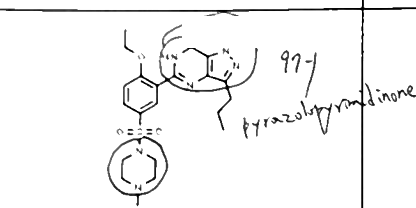
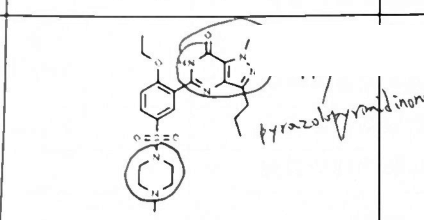
平安符：修正PDE5四個藥物的結構圖裁切，並加入AM_IMG讓dA卡片自動顯示
前一個commit裁切的sildenafil/vardenafil/tadalafil/avanafil結構圖欄位算錯，
導致圖片跨到隔壁藥物；重新用正確的欄位邊界裁切，並把四個id加進AM_IMG，
dA卡片才會自動帶出結構圖。

Changed region(s): [[0.0, 0.0, 1.0, 1.0]]

diff --git a/js/subjects/amulet.js b/js/subjects/amulet.js
@@ -3523,7 +3523,7 @@ kA(47, "常見藥物中毒解毒劑", 277, "常見藥物中毒解毒劑", [
 ]);
 
 /* 結構圖：從講義照片剪下（assets/amulet/），只收講義結構欄的印刷結構式；手寫標註與結構重疊的部分無法去除。 */
-const AM_IMG = {"amantadine": 1, "rimantadine": 1, "ribavirin": 1, "oseltamivir": 1, "zanamivir": 1, "peramivir": 1, "zidovudine": 1, "stavudine": 1, "zalcitabine": 1, "lamivudine": 1, "emtricitabine": 1, "didanosine": 1, "abacavir": 1, "tenofovir": 1, "nevirapine": 1, "efavirenz": 1, "delavirdine": 1, "ritonavir": 1, "indinavir": 1, "raltegravir": 1, "enfuvirtide": 1, "maraviroc": 1, "acyclovir": 1, "penciclovir": 1, "ganciclovir": 1, "cidofovir": 1, "foscarnet": 1, "fomivirsen": 1, "idoxuridine": 1, "trifluridine": 1, "vidarabine": 1, "tenofovir-disoproxil": 1, "adefovir-dipivoxil": 1, "boceprevir": 1, "mechlorethamine": 1, "cyclophosphamide": 1, "ifosfamide": 1, "melphalan": 1, "chlorambucil": 1, "carmustine": 1, "lomustine": 1, "thiotepa": 1, "busulfan": 1, "cisplatin": 1, "carboplatin": 1, "oxaliplatin": 1, "dacarbazine": 1, "temozolomide": 1, "procarbazine": 1, "methotrexate": 1, "fluorouracil": 1, "tegafur-capecitabine": 2, "cytarabine": 1, "gemcitabine": 1, "decitabine-azacitidine": 2, "mercaptopurine": 1, "thioguanine": 1, "fludarabine": 1, "nelarabine": 1, "pentostatin": 1, "hydroxyurea": 1, "dactinomycin": 1, "doxorubicin": 2, "mitoxantrone": 1, "plicamycin": 1, "mitomycin": 1, "bleomycin": 1, "paclitaxel": 1, "docetaxel": 1, "cabazitaxel": 1, "vinblastine": 1, "vincristine": 1, "ixabepilone": 1, "eribulin": 1, "estramustine": 1, "etoposide-teniposide": 1, "topotecan": 1, "irinotecan": 1, "trabectedin": 1, "inotuzumab-ozogamicin": 1, "lenalidomide": 1, "pomalidomide": 1, "romidepsin": 1, "belinostat": 1, "vorinostat": 1, "panobinostat": 1, "cyclosporine": 1, "tacrolimus": 1, "sirolimus-everolimus": 2, "mycophenolate-mofetil": 1, "azathioprine": 1, "leflunomide": 1, "thalidomide": 1, "fosfomycin": 1, "cycloserine": 1, "penicillin-g": 1, "methicillin": 1, "nafcillin": 1, "penicillin-v": 1, "ampicillin": 1, "amoxicillin": 1, "oxacillin": 1, "dicloxacillin": 1, "carbenicillin": 1, "ticarcillin": 1, "azlo-mezlo-piperacillin": 3, "cephalexin": 1, "cefadroxil": 1, "cephradine": 1, "cefazolin": 1, "cefaclor": 1, "cefuroxime": 1, "cefamandole": 1, "cefonicid": 1, "cefoxitin": 1, "cefotetan-cefmetazole": 2, "ceftazidime": 1, "cefoperazone": 1, "cefotaxime": 1, "ceftriaxone": 1, "ceftizoxime": 1, "cefixime": 1, "ceftibuten": 1, "moxalactam": 1, "cefpirome-cefepime": 2, "ceftaroline": 1, "clavulanic-acid": 1, "sulbactam": 1, "tazobactam": 1, "thienamycin": 1, "imipenem": 1, "meropenem": 1, "aztreonam": 1, "vancomycin": 1, "teicoplanin": 1, "streptomycin": 1, "neomycin": 1, "paromomycin": 1, "kanamycin": 1, "amikacin": 1, "tobramycin": 1, "gentamicin": 1, "sisomicin": 1, "netilmicin": 1, "spectinomycin": 1, "tetracycline": 1, "rolitetracycline": 1, "oxytetracycline": 1, "demeclocycline": 1, "doxycycline": 1, "minocycline": 1, "tigecycline": 1, "erythromycin": 1, "clarithromycin": 1, "azithromycin": 1, "troleandomycin": 1, "telithromycin": 1, "fidaxomicin": 1, "quinupristin-dalfopristin": 1, "lincomycin": 1, "clindamycin": 1, "chloramphenicol": 1, "linezolid": 1, "retapamulin": 1, "mupirocin": 1, "nalidixic-acid": 1, "ciprofloxacin": 1, "ofloxacin": 1, "levofloxacin": 1, "gatifloxacin": 1, "gemifloxacin": 1, "moxifloxacin": 1, "sulfamethoxazole": 1, "sulfisoxazole": 1, "sulfamethizole": 1, "sulfadiazine": 1, "mafenide": 1, "silver-sulfadiazine": 1, "sulfacetamide": 1, "sulfasalazine": 1, "sulfadoxine": 1, "trimethoprim": 1, "nitrofurantoin": 1, "methenamine": 1, "dapsone": 1, "terbinafine": 1, "ketoconazole": 1, "clotrimazole": 1, "itraconazole": 1, "fluconazole": 1, "voriconazole": 1, "amphotericin-b": 1, "nystatin": 1, "caspofungin": 1, "anidulafungin": 1, "flucytosine": 1, "griseofulvin": 1, "amorolfine": 1, "ciclopirox": 1, "isoniazid": 1, "rifampin": 1, "ethambutol": 1, "pyrazinamide": 1, "metronidazole": 1, "pentamidine": 1, "atovaquone": 1, "primaquine": 1, "tafenoquine": 1, "atovaquone-proguanil": 1, "capreomycin": 1, "ethionamide": 1, "suramin": 1, "eflornithine": 1, "melarsoprol": 1, "nifurtimox": 1, "ivermectin": 1, "praziquantel": 1, "mebendazole": 1, "metyrosine": 1, "methyldopa": 1, "reserpine": 1, "guanethidine": 1, "bretylium": 1, "cocaine": 1, "imipramine": 1, "amphetamine": 1, "methylphenidate": 1, "dopamine": 1, "norepinephrine": 1, "epinephrine": 1, "phenylephrine": 1, "naphazoline": 1, "midodrine": 1, "methoxamine": 1, "clonidine": 1, "guanabenz": 1, "guanfacine": 1, "moxonidine-rilmenidine": 2, "isoproterenol": 1, "metaproterenol": 1, "terbutaline": 1, "bitolterol": 1, "salbutamol": 1, "salmeterol": 1, "formoterol": 1, "ritodrine": 1, "dobutamine": 1, "ephedrine": 1, "pseudoephedrine": 1, "tolazoline": 1, "phentolamine": 1, "phenoxybenzamine": 1, "prazosin": 1, "terazosin": 1, "alfuzosin": 1, "tamsulosin": 1, "silodosin": 1, "yohimbine": 1, "propranolol": 1, "carvedilol": 1, "ergonovine": 1, "methysergide": 1, "lsd": 1, "ergotamine": 1, "cevimeline": 1, "pilocarpine": 1, "arecoline": 1, "physostigmine": 1, "neostigmine": 1, "tacrine": 1, "galantamine": 1, "donepezil": 1, "rivastigmine": 1, "isoflurophate": 1, "parathion": 1, "pralidoxime": 1, "atropine": 1, "scopolamine": 1, "ipratropium-tiotropium": 2, "oxybutynin": 1, "solifenacin": 1, "benztropine": 1, "orphenadrine": 1, "pirenzepine": 1, "buspirone": 1, "sarizotan": 1, "spiperone": 1, "sumatriptan": 1, "rizatriptan": 1, "ketanserin": 1, "cyproheptadine": 1, "melatonin": 1, "ondansetron": 1, "alosetron": 1, "tegaserod": 1, "cisapride": 1, "metoclopramide": 1, "amitriptyline": 1, "doxepin": 1, "clomipramine": 1, "nortriptyline": 1, "desipramine": 1, "protriptyline": 1, "amoxapine": 1, "maprotiline": 1, "nisoxetine": 1, "reboxetine": 1, "atomoxetine": 1, "fluoxetine": 1, "paroxetine": 1, "citalopram": 1, "sertraline": 1, "fluvoxamine": 1, "duloxetine": 1, "venlafaxine": 1, "milnacipran": 1, "bupropion": 1, "mirtazapine": 1, "trazodone": 1, "vilazodone": 1, "vortioxetine": 1, "phenelzine": 1, "isocarboxazid": 1, "tranylcypromine": 1, "selegiline": 1, "moclobemide": 1, "nitrous-oxide": 1, "halothane": 1, "methoxyflurane": 1, "enflurane": 1, "isoflurane": 1, "desflurane": 1, "sevoflurane": 1, "acetazolamide": 1, "methazolamide": 1, "dichlorphenamide": 1, "furosemide": 1, "bumetanide": 1, "torsemide": 1, "ethacrynic-acid": 1, "chlorothiazide": 1, "quinethazone": 1, "indapamide": 1, "chlorthalidone": 1, "xipamide": 1, "spironolactone": 1, "triamterene-amiloride": 2, "mannitol": 1, "hydralazine": 1, "nitroprusside": 1, "fenoldopam": 1, "minoxidil": 1, "diazoxide": 1, "nifedipine": 1, "nimodipine": 1, "amlodipine": 1, "verapamil": 1, "diltiazem": 1, "bepridil": 1, "captopril": 1, "lisinopril": 1, "enalapril": 1, "fosinopril": 1, "benazepril-moexipril-quinapril": 3, "aliskiren": 1, "losartan": 1, "olmesartan": 1, "candesartan": 1, "irbesartan": 1, "valsartan": 1, "telmisartan": 1, "eprosartan": 1, "azilsartan": 1, "bosentan": 1, "quinidine": 1, "procainamide": 1, "disopyramide": 1, "lidocaine-arrhythmia": 1, "mexiletine": 1, "phenytoin-arrhythmia": 1, "tocainide": 1, "flecainide": 1, "propafenone": 1, "esmolol": 1, "amiodarone": 1, "dronedarone": 1, "bretylium-arrhythmia": 1, "sotalol": 1, "ibutilide": 1, "dofetilide": 1, "digoxin-arrhythmia": 1, "adenosine": 1, "amrinone-milrinone": 1, "forskolin": 1, "sacubitril-valsartan": 1, "ivabradine": 1, "heparin": 1, "fondaparinux": 1, "argatroban": 1, "dabigatran": 1, "warfarin": 1, "phenindione-anisindione": 2, "aspirin-antiplatelet": 1, "ticlopidine": 1, "clopidogrel": 1, "prasugrel": 1, "ticagrelor": 1, "statins": 9, "clofibrate": 1, "fenofibrate": 1, "gemfibrozil": 1, "ezetimibe": 1, "bile-acid-resins": 1, "niacin": 1, "dextrothyroxine": 1, "probucol": 1, "somatostatin": 1, "octreotide": 1, "oxytocin": 1, "estradiol": 1, "testosterone": 1, "progesterone": 1, "cortisone": 1, "hydrocortisone": 1, "prednisolone": 1, "dexamethasone": 1, "betamethasone": 1, "triamcinolone": 1, "fluocinolone-acetonide": 1, "meprednisone": 1, "budesonide": 1, "aldosterone": 1, "fludrocortisone": 1, "deoxycorticosterone": 1, "ethinyl-estradiol": 1, "diethylstilbestrol": 1, "clomiphene": 1, "tamoxifen": 1, "raloxifene": 1, "bazedoxifene": 1, "fulvestrant": 1, "aminoglutethimide": 1, "letrozole": 1, "anastrozole": 1, "exemestane": 1, "norgestrel": 1, "desogestrel": 1, "mifepristone": 1, "danazol": 1, "stanozolol": 1, "flutamide-group": 3, "enzalutamide": 1, "cyproterone": 1, "finasteride": 1, "dutasteride": 1, "ptu": 1, "methimazole": 1, "levothyroxine": 1, "liothyronine": 1, "sulfonylurea": 4, "meglitinide": 2, "metformin": 1, "tzd": 2, "muraglitazar": 1, "alpha-glucosidase-inhibitors": 3, "dpp4": 4, "triflusal-diflunisal": 2, "indomethacin": 1, "sulindac": 1, "diclofenac": 1, "tolmetin": 1, "nabumetone": 1, "ibuprofen": 1, "naproxen": 1, "flurbiprofen": 1, "mefenamic-acid": 1, "piroxicam": 1, "meloxicam": 1, "phenylbutazone": 1, "coxibs": 6, "acetaminophen": 1, "colchicine": 1, "probenecid": 1, "sulfinpyrazone": 1, "benzbromarone": 1, "lesinurad": 1, "allopurinol": 1, "febuxostat": 1, "diphenhydramine": 1, "tripelennamine": 1, "pheniramine": 1, "cyclizine-hydroxyzine": 2, "promethazine": 1, "terfenadine-fexofenadine": 1, "ebastine": 1, "loratadine": 1, "astemizole": 1, "acrivastine": 1, "cetirizine": 1, "khellin": 1, "cromolyn": 1, "pemirolast": 1, "omeprazole": 1, "lansoprazole": 1, "pantoprazole": 1, "sucralfate": 1, "bismuth-subsalicylate": 1, "misoprostol": 1, "cimetidine": 1, "ranitidine": 1, "nizatidine": 1, "famotidine": 1};
+const AM_IMG = {"amantadine": 1, "rimantadine": 1, "ribavirin": 1, "oseltamivir": 1, "zanamivir": 1, "peramivir": 1, "zidovudine": 1, "stavudine": 1, "zalcitabine": 1, "lamivudine": 1, "emtricitabine": 1, "didanosine": 1, "abacavir": 1, "tenofovir": 1, "nevirapine": 1, "efavirenz": 1, "delavirdine": 1, "ritonavir": 1, "indinavir": 1, "raltegravir": 1, "enfuvirtide": 1, "maraviroc": 1, "acyclovir": 1, "penciclovir": 1, "ganciclovir": 1, "cidofovir": 1, "foscarnet": 1, "fomivirsen": 1, "idoxuridine": 1, "trifluridine": 1, "vidarabine": 1, "tenofovir-disoproxil": 1, "adefovir-dipivoxil": 1, "boceprevir": 1, "mechlorethamine": 1, "cyclophosphamide": 1, "ifosfamide": 1, "melphalan": 1, "chlorambucil": 1, "carmustine": 1, "lomustine": 1, "thiotepa": 1, "busulfan": 1, "cisplatin": 1, "carboplatin": 1, "oxaliplatin": 1, "dacarbazine": 1, "temozolomide": 1, "procarbazine": 1, "methotrexate": 1, "fluorouracil": 1, "tegafur-capecitabine": 2, "cytarabine": 1, "gemcitabine": 1, "decitabine-azacitidine": 2, "mercaptopurine": 1, "thioguanine": 1, "fludarabine": 1, "nelarabine": 1, "pentostatin": 1, "hydroxyurea": 1, "dactinomycin": 1, "doxorubicin": 2, "mitoxantrone": 1, "plicamycin": 1, "mitomycin": 1, "bleomycin": 1, "paclitaxel": 1, "docetaxel": 1, "cabazitaxel": 1, "vinblastine": 1, "vincristine": 1, "ixabepilone": 1, "eribulin": 1, "estramustine": 1, "etoposide-teniposide": 1, "topotecan": 1, "irinotecan": 1, "trabectedin": 1, "inotuzumab-ozogamicin": 1, "lenalidomide": 1, "pomalidomide": 1, "romidepsin": 1, "belinostat": 1, "vorinostat": 1, "panobinostat": 1, "cyclosporine": 1, "tacrolimus": 1, "sirolimus-everolimus": 2, "mycophenolate-mofetil": 1, "azathioprine": 1, "leflunomide": 1, "thalidomide": 1, "fosfomycin": 1, "cycloserine": 1, "penicillin-g": 1, "methicillin": 1, "nafcillin": 1, "penicillin-v": 1, "ampicillin": 1, "amoxicillin": 1, "oxacillin": 1, "dicloxacillin": 1, "carbenicillin": 1, "ticarcillin": 1, "azlo-mezlo-piperacillin": 3, "cephalexin": 1, "cefadroxil": 1, "cephradine": 1, "cefazolin": 1, "cefaclor": 1, "cefuroxime": 1, "cefamandole": 1, "cefonicid": 1, "cefoxitin": 1, "cefotetan-cefmetazole": 2, "ceftazidime": 1, "cefoperazone": 1, "cefotaxime": 1, "ceftriaxone": 1, "ceftizoxime": 1, "cefixime": 1, "ceftibuten": 1, "moxalactam": 1, "cefpirome-cefepime": 2, "ceftaroline": 1, "clavulanic-acid": 1, "sulbactam": 1, "tazobactam": 1, "thienamycin": 1, "imipenem": 1, "meropenem": 1, "aztreonam": 1, "vancomycin": 1, "teicoplanin": 1, "streptomycin": 1, "neomycin": 1, "paromomycin": 1, "kanamycin": 1, "amikacin": 1, "tobramycin": 1, "gentamicin": 1, "sisomicin": 1, "netilmicin": 1, "spectinomycin": 1, "tetracycline": 1, "rolitetracycline": 1, "oxytetracycline": 1, "demeclocycline": 1, "doxycycline": 1, "minocycline": 1, "tigecycline": 1, "erythromycin": 1, "clarithromycin": 1, "azithromycin": 1, "troleandomycin": 1, "telithromycin": 1, "fidaxomicin": 1, "quinupristin-dalfopristin": 1, "lincomycin": 1, "clindamycin": 1, "chloramphenicol": 1, "linezolid": 1, "retapamulin": 1, "mupirocin": 1, "nalidixic-acid": 1, "ciprofloxacin": 1, "ofloxacin": 1, "levofloxacin": 1, "gatifloxacin": 1, "gemifloxacin": 1, "moxifloxacin": 1, "sulfamethoxazole": 1, "sulfisoxazole": 1, "sulfamethizole": 1, "sulfadiazine": 1, "mafenide": 1, "silver-sulfadiazine": 1, "sulfacetamide": 1, "sulfasalazine": 1, "sulfadoxine": 1, "trimethoprim": 1, "nitrofurantoin": 1, "methenamine": 1, "dapsone": 1, "terbinafine": 1, "ketoconazole": 1, "clotrimazole": 1, "itraconazole": 1, "fluconazole": 1, "voriconazole": 1, "amphotericin-b": 1, "nystatin": 1, "caspofungin": 1, "anidulafungin": 1, "flucytosine": 1, "griseofulvin": 1, "amorolfine": 1, "ciclopirox": 1, "isoniazid": 1, "rifampin": 1, "ethambutol": 1, "pyrazinamide": 1, "metronidazole": 1, "pentamidine": 1, "atovaquone": 1, "primaquine": 1, "tafenoquine": 1, "atovaquone-proguanil": 1, "capreomycin": 1, "ethionamide": 1, "suramin": 1, "eflornithine": 1, "melarsoprol": 1, "nifurtimox": 1, "ivermectin": 1, "praziquantel": 1, "mebendazole": 1, "metyrosine": 1, "methyldopa": 1, "reserpine": 1, "guanethidine": 1, "bretylium": 1, "cocaine": 1, "imipramine": 1, "amphetamine": 1, "methylphenidate": 1, "dopamine": 1, "norepinephrine": 1, "epinephrine": 1, "phenylephrine": 1, "naphazoline": 1, "midodrine": 1, "methoxamine": 1, "clonidine": 1, "guanabenz": 1, "guanfacine": 1, "moxonidine-rilmenidine": 2, "isoproterenol": 1, "metaproterenol": 1, "terbutaline": 1, "bitolterol": 1, "salbutamol": 1, "salmeterol": 1, "formoterol": 1, "ritodrine": 1, "dobutamine": 1, "ephedrine": 1, "pseudoephedrine": 1, "tolazoline": 1, "phentolamine": 1, "phenoxybenzamine": 1, "prazosin": 1, "terazosin": 1, "alfuzosin": 1, "tamsulosin": 1, "silodosin": 1, "yohimbine": 1, "propranolol": 1, "carvedilol": 1, "ergonovine": 1, "methysergide": 1, "lsd": 1, "ergotamine": 1, "cevimeline": 1, "pilocarpine": 1, "arecoline": 1, "physostigmine": 1, "neostigmine": 1, "tacrine": 1, "galantamine": 1, "donepezil": 1, "rivastigmine": 1, "isoflurophate": 1, "parathion": 1, "pralidoxime": 1, "atropine": 1, "scopolamine": 1, "ipratropium-tiotropium": 2, "oxybutynin": 1, "solifenacin": 1, "benztropine": 1, "orphenadrine": 1, "pirenzepine": 1, "buspirone": 1, "sarizotan": 1, "spiperone": 1, "sumatriptan": 1, "rizatriptan": 1, "ketanserin": 1, "cyproheptadine": 1, "melatonin": 1, "ondansetron": 1, "alosetron": 1, "tegaserod": 1, "cisapride": 1, "metoclopramide": 1, "amitriptyline": 1, "doxepin": 1, "clomipramine": 1, "nortriptyline": 1, "desipramine": 1, "protriptyline": 1, "amoxapine": 1, "maprotiline": 1, "nisoxetine": 1, "reboxetine": 1, "atomoxetine": 1, "fluoxetine": 1, "paroxetine": 1, "citalopram": 1, "sertraline": 1, "fluvoxamine": 1, "duloxetine": 1, "venlafaxine": 1, "milnacipran": 1, "bupropion": 1, "mirtazapine": 1, "trazodone": 1, "vilazodone": 1, "vortioxetine": 1, "phenelzine": 1, "isocarboxazid": 1, "tranylcypromine": 1, "selegiline": 1, "moclobemide": 1, "nitrous-oxide": 1, "halothane": 1, "methoxyflurane": 1, "enflurane": 1, "isoflurane": 1, "desflurane": 1, "sevoflurane": 1, "acetazolamide": 1, "methazolamide": 1, "dichlorphenamide": 1, "furosemide": 1, "bumetanide": 1, "torsemide": 1, "ethacrynic-acid": 1, "chlorothiazide": 1, "quinethazone": 1, "indapamide": 1, "chlorthalidone": 1, "xipamide": 1, "spironolactone": 1, "triamterene-amiloride": 2, "mannitol": 1, "hydralazine": 1, "nitroprusside": 1, "fenoldopam": 1, "minoxidil": 1, "diazoxide": 1, "nifedipine": 1, "nimodipine": 1, "amlodipine": 1, "verapamil": 1, "diltiazem": 1, "bepridil": 1, "sildenafil": 1, "vardenafil": 1, "tadalafil": 1, "avanafil": 1, "captopril": 1, "lisinopril": 1, "enalapril": 1, "fosinopril": 1, "benazepril-moexipril-quinapril": 3, "aliskiren": 1, "losartan": 1, "olmesartan": 1, "candesartan": 1, "irbesartan": 1, "valsartan": 1, "telmisartan": 1, "eprosartan": 1, "azilsartan": 1, "bosentan": 1, "quinidine": 1, "procainamide": 1, "disopyramide": 1, "lidocaine-arrhythmia": 1, "mexiletine": 1, "phenytoin-arrhythmia": 1, "tocainide": 1, "flecainide": 1, "propafenone": 1, "esmolol": 1, "amiodarone": 1, "dronedarone": 1, "bretylium-arrhythmia": 1, "sotalol": 1, "ibutilide": 1, "dofetilide": 1, "digoxin-arrhythmia": 1, "adenosine": 1, "amrinone-milrinone": 1, "forskolin": 1, "sacubitril-valsartan": 1, "ivabradine": 1, "heparin": 1, "fondaparinux": 1, "argatroban": 1, "dabigatran": 1, "warfarin": 1, "phenindione-anisindione": 2, "aspirin-antiplatelet": 1, "ticlopidine": 1, "clopidogrel": 1, "prasugrel": 1, "ticagrelor": 1, "statins": 9, "clofibrate": 1, "fenofibrate": 1, "gemfibrozil": 1, "ezetimibe": 1, "bile-acid-resins": 1, "niacin": 1, "dextrothyroxine": 1, "probucol": 1, "somatostatin": 1, "octreotide": 1, "oxytocin": 1, "estradiol": 1, "testosterone": 1, "progesterone": 1, "cortisone": 1, "hydrocortisone": 1, "prednisolone": 1, "dexamethasone": 1, "betamethasone": 1, "triamcinolone": 1, "fluocinolone-acetonide": 1, "meprednisone": 1, "budesonide": 1, "aldosterone": 1, "fludrocortisone": 1, "deoxycorticosterone": 1, "ethinyl-estradiol": 1, "diethylstilbestrol": 1, "clomiphene": 1, "tamoxifen": 1, "raloxifene": 1, "bazedoxifene": 1, "fulvestrant": 1, "aminoglutethimide": 1, "letrozole": 1, "anastrozole": 1, "exemestane": 1, "norgestrel": 1, "desogestrel": 1, "mifepristone": 1, "danazol": 1, "stanozolol": 1, "flutamide-group": 3, "enzalutamide": 1, "cyproterone": 1, "finasteride": 1, "dutasteride": 1, "ptu": 1, "methimazole": 1, "levothyroxine": 1, "liothyronine": 1, "sulfonylurea": 4, "meglitinide": 2, "metformin": 1, "tzd": 2, "muraglitazar": 1, "alpha-glucosidase-inhibitors": 3, "dpp4": 4, "triflusal-diflunisal": 2, "indomethacin": 1, "sulindac": 1, "diclofenac": 1, "tolmetin": 1, "nabumetone": 1, "ibuprofen": 1, "naproxen": 1, "flurbiprofen": 1, "mefenamic-acid": 1, "piroxicam": 1, "meloxicam": 1, "phenylbutazone": 1, "coxibs": 6, "acetaminophen": 1, "colchicine": 1, "probenecid": 1, "sulfinpyrazone": 1, "benzbromarone": 1, "lesinurad": 1, "allopurinol": 1, "febuxostat": 1, "diphenhydramine": 1, "tripelennamine": 1, "pheniramine": 1, "cyclizine-hydroxyzine": 2, "promethazine": 1, "terfenadine-fexofenadine": 1, "ebastine": 1, "loratadine": 1, "astemizole": 1, "acrivastine": 1, "cetirizine": 1, "khellin": 1, "cromolyn": 1, "pemirolast": 1, "omeprazole": 1, "lansoprazole": 1, "pantoprazole": 1, "sucralfate": 1, "bismuth-subsalicylate": 1, "misoprostol": 1, "cimetidine": 1, "ranitidine": 1, "nizatidine": 1, "famotidine": 1};
 Object.entries(AM_IMG).forEach(([id, n]) => {
   const u = PI.UNITS.find(x => x.id === id); if (!u) return;
   u.img = "assets/amulet/" + id + ".png";
